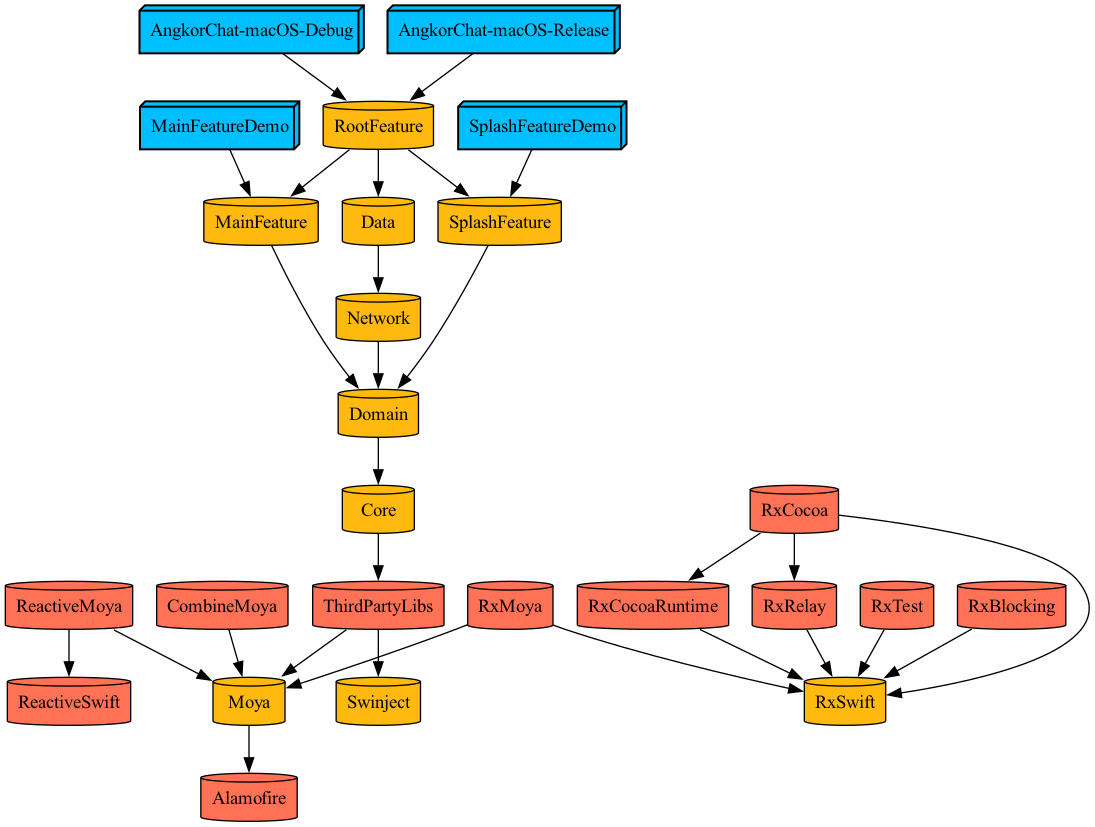
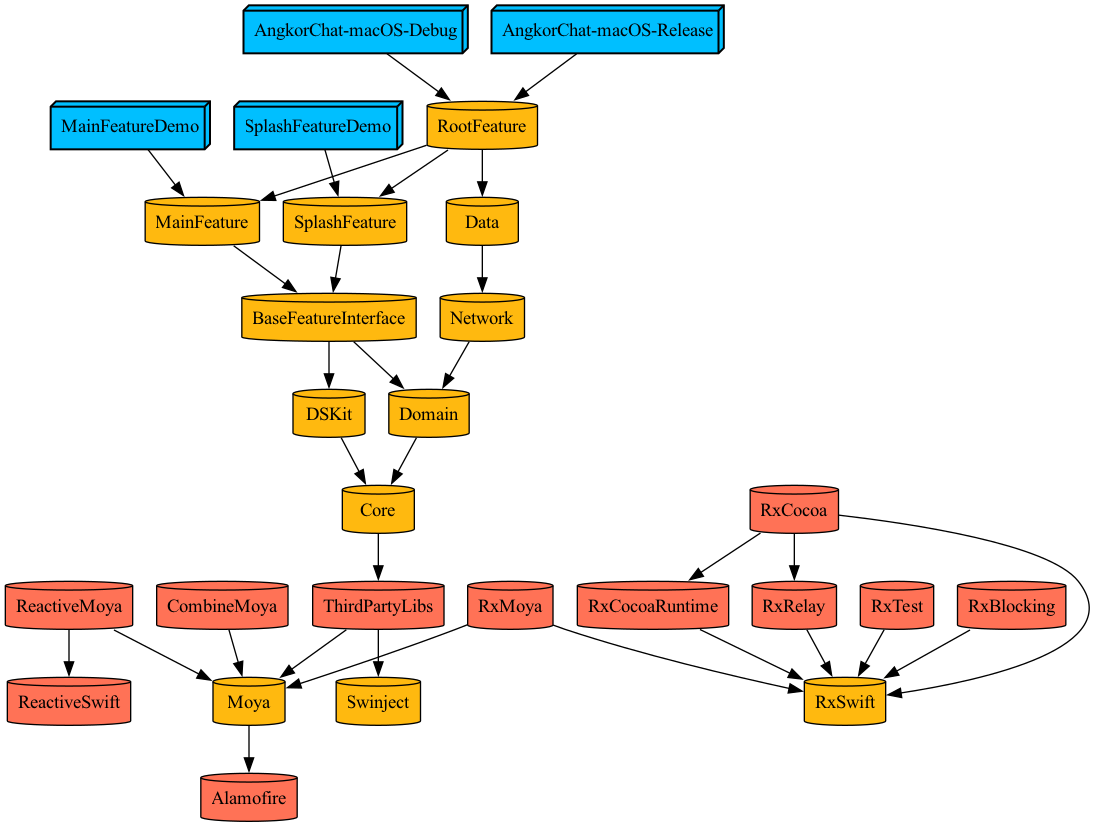
add: DSKit, BaseFeatureInterface 모듈 추가

diff --git a/Tuist/ProjectDescriptionHelpers/Dependencies.swift b/Tuist/ProjectDescriptionHelpers/Dependencies.swift
@@ -52,6 +52,16 @@ public extension TargetDependency {
         path: .relativeToRoot("Projects/Shared/ThirdPartyLibs")
     )
     
+    static let baseFeatureInterface: TargetDependency = .project(
+        target: "BaseFeatureInterface",
+        path: .relativeToRoot("Projects/Shared/BaseFeatureInterface")
+    )
+    
+    static let dsKit: TargetDependency = .project(
+        target: "DSKit",
+        path: .relativeToRoot("Projects/Shared/DSKit")
+    )
+    
     static let network: TargetDependency = .project(
             target: "Network",
             path: .relativeToRoot("Projects/Shared/Network")

diff --git a/Projects/Shared/BaseFeatureInterface/Project.swift b/Projects/Shared/BaseFeatureInterface/Project.swift
@@ -2,12 +2,14 @@ import ProjectDescription
 import ProjectDescriptionHelpers
 
 let project = Project.makeAppModule(
-    name: "MainFeature",
-    targets: [.dynamicFramework, .demo],
+    name: "BaseFeatureInterface",
+    targets: [.dynamicFramework],
     destinations: .macOS,
     deploymentTargets: .macOS(Configs.minimumTarget),
     packages: [],
     internalDependencies: [
-        .baseFeatureInterface
+        .dsKit,
+        .domain
     ]
 )
+

diff --git a/Projects/Shared/DSKit/Project.swift b/Projects/Shared/DSKit/Project.swift
@@ -2,12 +2,13 @@ import ProjectDescription
 import ProjectDescriptionHelpers
 
 let project = Project.makeAppModule(
-    name: "MainFeature",
-    targets: [.dynamicFramework, .demo],
+    name: "DSKit",
+    targets: [.dynamicFramework],
     destinations: .macOS,
     deploymentTargets: .macOS(Configs.minimumTarget),
     packages: [],
     internalDependencies: [
-        .baseFeatureInterface
+        .core
     ]
 )
+

diff --git a/Projects/Features/SplashFeature/Project.swift b/Projects/Features/SplashFeature/Project.swift
@@ -8,6 +8,6 @@ let project = Project.makeAppModule(
     deploymentTargets: .macOS(Configs.minimumTarget),
     packages: [],
     internalDependencies: [
-        .domain
+        .baseFeatureInterface
     ]
 )
